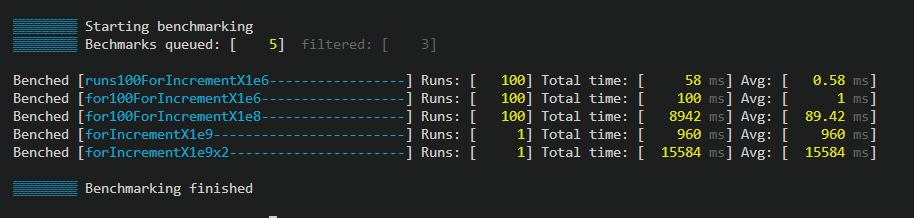
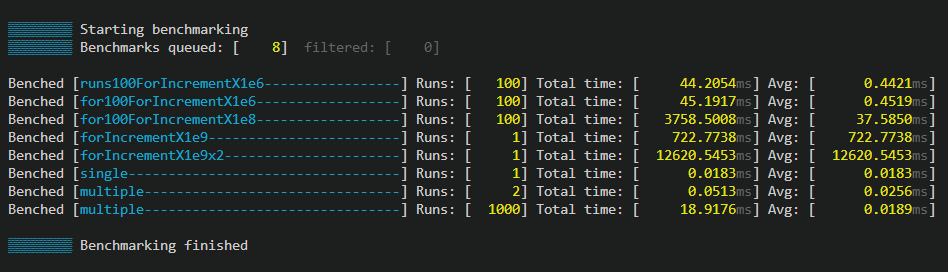
Update docs with hrtime pictures

diff --git a/utils.ts b/utils.ts
@@ -7,7 +7,7 @@ export function getTimeColor(name: string, time: number, threshold?: any) {
     if (time <= th.yellow) return yellow;
     if (th.yellow < time) return red;
   }
-  return cyan;
+  return yellow; // TODO make default color an option
 }
 
 export function getTimePadSize() {

diff --git a/README.md b/README.md
@@ -26,7 +26,7 @@ import { prettyBenchmarkResult, prettyBenchmarkProgress } from 'https://deno.lan
 
 ## Note
 
-Using Deno's `--allow-hrtime` flag when running your code, will result in a more precise benchmarking, because than float milliseconds will be used for measurement instead of integer.
+Using Deno's `--allow-hrtime` flag when running your code will result in a more precise benchmarking, because than float milliseconds will be used for measurement instead of integer.
 
 # prettyBenchmarkProgress
 [![deno version](https://img.shields.io/badge/deno-1.0.5-success)](https://github.com/denoland/deno)
